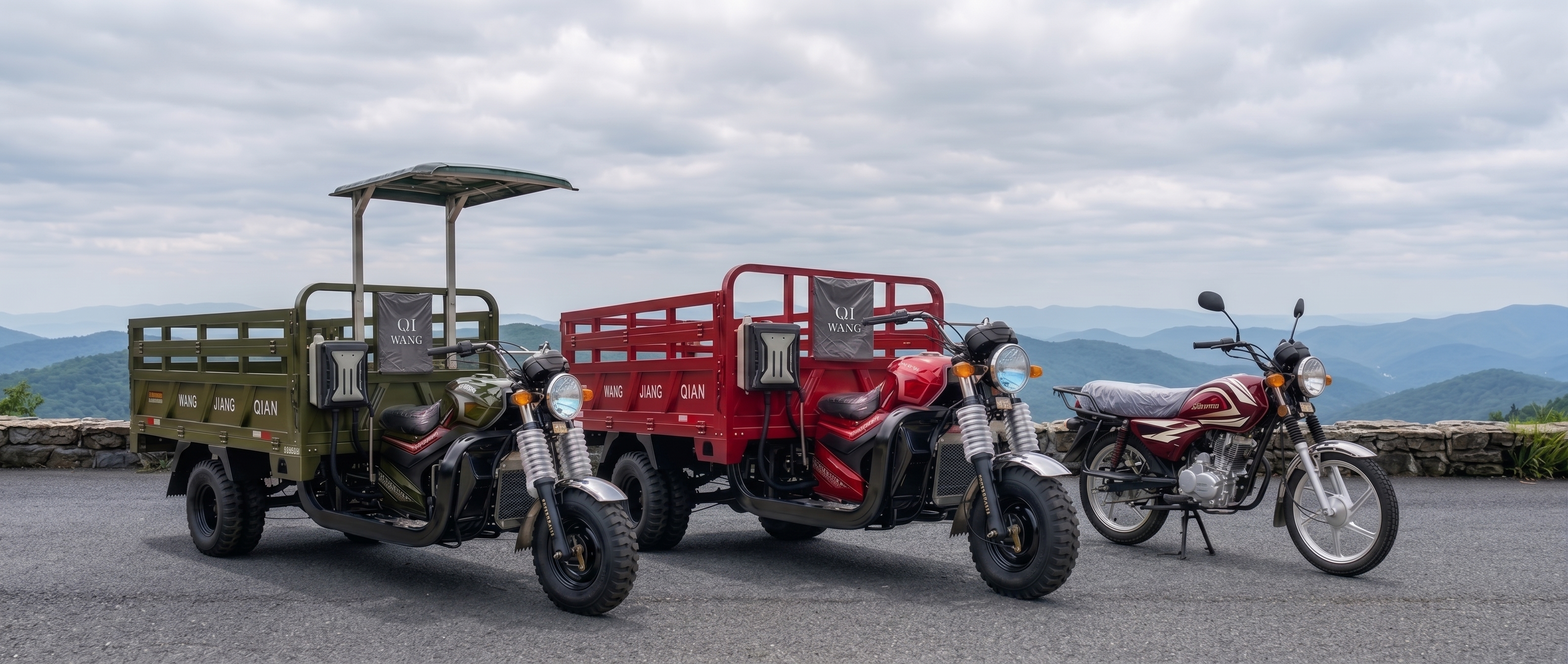
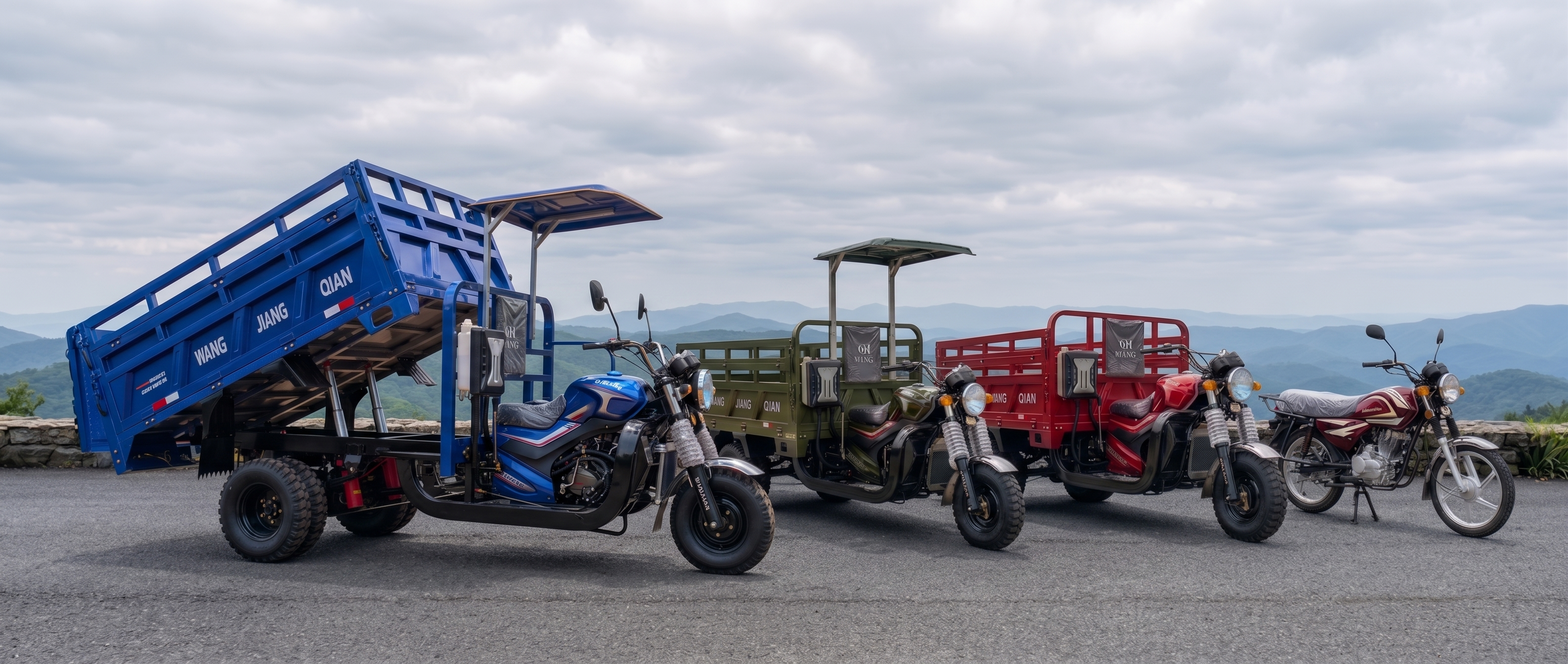
added teh self tipper

diff --git a/products.html b/products.html
@@ -134,42 +134,43 @@
         </div>
       </div>
 
-      <!-- ===== QJ WANG 300  ===== -->
-      <div class="catalog-card reveal" data-id="cargo-150-oil" data-type="tricycle">
-        <div class="bike-media">
-          
-          <img src="images/bikes/300_green_side.jpg" alt="QJ WANG 300 — photo">
+      <!-- ===== QJ WANG 300 self-tipping  ===== -->
+      <!-- ===== QJ WANG 300 self-tipping  ===== -->
+    <div class="catalog-card reveal" data-id="cargo-300-selftipping" data-type="tricycle">
+      <div class="bike-media">
+        <span class="bike-badge">New</span>
+        <img src="images/bikes/300_blue_tipper_side_right.jpg" alt="QJ WANG 300 — photo">
+      </div>
+      <div class="bike-body">
+        <span class="cat mono">CARGO TRICYCLE &middot; TUKTUK</span>
+        <h3>QJ WANG 300</h3>
+        <div class="bike-specs-mini">
+          <div>Engine<strong>300CC</strong></div>
+          <div>Load<strong>1.5 ton</strong></div>
         </div>
-        <div class="bike-body">
-          <span class="cat mono">CARGO TRICYCLE &middot; TUKTUK</span>
-          <h3>QJ WANG 300</h3>
-          <div class="bike-specs-mini">
-            <div>Engine<strong>300CC</strong></div>
-            <div>Load<strong>1.0 ton</strong></div>
-          </div>
-          <div class="bike-body-footer">
-            <span class="price-tag">Price on request</span>
-            <span class="view-link">Tap to expand <svg viewBox="0 0 24 24" fill="none" stroke="currentColor" stroke-width="2"><path d="M6 9l6 6 6-6"/></svg></span>
-          </div>
+        <div class="bike-body-footer">
+          <span class="price-tag">Price on request</span>
+          <span class="view-link">Tap to expand <svg viewBox="0 0 24 24" fill="none" stroke="currentColor" stroke-width="2"><path d="M6 9l6 6 6-6"/></svg></span>
         </div>
       </div>
-      <div class="dossier-row" id="dossier-cargo-150-oil" data-for="cargo-150-oil">
+    </div>
+    <div class="dossier-row" id="dossier-cargo-300-selftipping" data-for="cargo-300-selftipping">
         <div class="dossier">
           <button class="dossier-close" aria-label="Close">&#10005;</button>
           <div class="dossier-top">
             <div class="dossier-gallery">
               <div class="dossier-gallery-main">
-                <img src="images/bikes/300_green_front_left.jpg" alt="JZ Cargo 150 (Oil-Cooled) — main photo">
+                <img src="images/bikes/300_blue_tipper_front.jpg" alt="JZ Cargo 150 (Oil-Cooled) — main photo">
               </div>
               <div class="dossier-thumbs">
-                <button class="active"><img src="images/bikes/300_green_front.jpg" alt="JZ Cargo 150 (Oil-Cooled) photo 1"></button>
-                <button><img src="images/bikes/300_greeen_back.jpg" alt="JZ Cargo 150 (Oil-Cooled) photo 2"></button>
-                <button><img src="images/bikes/300_green_side.jpg" alt="JZ Cargo 150 (Oil-Cooled) photo 3"></button>
+                <button class="active"><img src="images/bikes/300_blue_tipper_front.jpg" alt="JZ Cargo 150 (Oil-Cooled) photo 1"></button>
+                <button><img src="images/bikes/300_blue_tipper_side_left.jpg" alt="JZ Cargo 150 (Oil-Cooled) photo 2"></button>
+                <button><img src="images/bikes/300_blue_tipper_side_right.jpg" alt="JZ Cargo 150 (Oil-Cooled) photo 3"></button>
               </div>
             </div>
             <div class="dossier-info">
               <span class="cat mono">DOUBLE TIRE &middot; TUKTUK</span>
-              <h3>QJ WANG 300</h3>
+              <h3>QJ WANG 300 Self-Tipping</h3>
               <div class="dossier-tabs">
                 <!-- <button class="active" data-tab="overview">Overview</button> -->
                 <button class="active" data-tab="specs">Specs</button>
@@ -180,11 +181,12 @@
               <div class="dossier-pane active" data-pane="specs">
                 <table class="spec-table">
                   <tr><td colspan="2" style="padding-top:0; color:var(--green); font-weight:700; letter-spacing:0.06em;">MAIN TECHNICAL PARAMETERS</td></tr>
-                  <tr><td>Engine</td><td>300CC</td></tr>
+                  <tr><td>Engine</td><td>300CC </td></tr>
+                  <tr><td>Loading</td><td>self tipping </td></tr>
                   <tr><td>Cooling System</td><td>Radiator water-cooled</td></tr>
                   <tr><td>Body Size (W &times; L, m)</td><td>1.2 × 1.8</td></tr>
                   <tr><td>Tyre Specification</td><td>5.00-12</td></tr>
-                  <tr><td>Carrying Capacity (incl. rider)</td><td>1.0 ton</td></tr>
+                  <tr><td>Carrying Capacity (incl. rider)</td><td>1.5 ton</td></tr>
                   <tr><td>Key Technical Upgrades</td><td>Radiator water-cooled version enhanced heat control </br> improved performance </br> increased durability. </td></tr>
                 </table>
               </div>
@@ -196,6 +198,75 @@
                 <div class="dossier-footer" style="margin-top:0;">
                   <a href="https://wa.me/256740488173" target="_blank" rel="noopener" class="btn btn-red">Enquire on WhatsApp</a>
                   <a href="tel:+256770699999" class="btn btn-outline">Call Us</a>
+                </div>
+              </div>
+            </div>
+          </div>
+        </div>
+      </div>
+
+      <!-- ===== QJ WANG 300 (Radiator Water-Cooled) ===== -->
+      <div class="catalog-card reveal" data-id="cargo-300-water" data-type="tricycle">
+        <div class="bike-media">
+      
+          <img src="images/bikes/300_red_side.jpg" alt="QJ WANG 300 (Radiator Water-Cooled) — photo">
+        </div>
+        <div class="bike-body">
+          <span class="cat mono">DOUBLE TIRE &middot; TUKTUK</span>
+          <h3>QJ WANG 300 </h3>
+          <div class="bike-specs-mini">
+            <div>Engine<strong>300CC</strong></div>
+            <div>Load<strong>1.8 tons</strong></div>
+          </div>
+          <div class="bike-body-footer">
+            <span class="price-tag">Price on request</span>
+            <span class="view-link">Tap to expand <svg viewBox="0 0 24 24" fill="none" stroke="currentColor" stroke-width="2"><path d="M6 9l6 6 6-6"/></svg></span>
+          </div>
+        </div>
+      </div>
+      <div class="dossier-row" id="dossier-cargo-300-water" data-for="cargo-300-water">
+        <div class="dossier">
+          <button class="dossier-close" aria-label="Close">&#10005;</button>
+          <div class="dossier-top">
+            <div class="dossier-gallery">
+              <div class="dossier-gallery-main">
+                <img src="images/bikes/300_red_side.jpg" alt="QJ WANG 300 (Radiator Water-Cooled) — main photo">
+              </div>
+              <div class="dossier-thumbs">
+                <button class="active"><img src="images/bikes/300_red_side.jpg" alt="QJ WANG 300 (Radiator Water-Cooled) photo 1"></button>
+                <button><img src="images/bikes/300_red_back.jpg" alt="QJ WANG 300 (Radiator Water-Cooled) photo 2"></button>
+                <!-- <button><img src="images/bikes/300_green_side.jpg" alt="QJ WANG 300 (Radiator Water-Cooled) photo 3"></button> -->
+              </div>
+            </div>
+            <div class="dossier-info">
+              <span class="cat mono">CARGO TRICYCLE &middot; TUKTUK</span>
+              <h3>QJ WANG 300</h3>
+              <div class="dossier-tabs">
+                <!-- <button class="active" data-tab="overview">Overview</button> -->
+                <button class="active" data-tab="specs">Specs</button>
+              </div>
+              <!-- <div class="dossier-pane active" data-pane="overview">
+                <p class="desc">Radiator system for cooler performance under load; larger rear tyres for balance.</p>
+              </div> -->
+              <div class="dossier-pane active" data-pane="specs">
+                <table class="spec-table">
+                  <tr><td colspan="2" style="padding-top:0; color:var(--green); font-weight:700; letter-spacing:0.06em;">MAIN TECHNICAL PARAMETERS</td></tr>
+                  <tr><td>Engine</td><td>300CC</td></tr>
+                  <tr><td>Cooling System</td><td>Radiator water-cooled</td></tr>
+                  <tr><td>Body Size (W &times; L, m)</td><td>1.3 × 2.0</td></tr>
+                  <tr><td>Tyre Specification</td><td>Front 5.00-12 / Rear 5.50-13</td></tr>
+                  <tr><td>Carrying Capacity (incl. rider)</td><td>1.3 tons</td></tr>
+                  <tr><td>Key Technical Upgrades</td><td>Radiator system for cooler performance under load </br> larger rear tyres for balance </br> improved torque </br> load stability. </td></tr>
+                </table>
+              </div>
+
+              <div class="interest-panel">
+                <span class="eyebrow">JIUZHOU MOTORCYCLES</span>
+                <h4>Interested in the QJ WANG 300?</h4>
+                <p>Chat with our team for current pricing, financing options and availability.</p>
+                <div class="dossier-footer" style="margin-top:0;">
+                  <a href="https://wa.me/256740488173" target="_blank" rel="noopener" class="btn btn-red">Enquire on WhatsApp</a>
+                  <a href="tel:+25677069999" class="btn btn-outline">Call Us</a>
                 </div>
               </div>
             </div>
@@ -271,19 +342,18 @@
           </div>
         </div>
       </div>
-
-      <!-- ===== QJ WANG 300 (Radiator Water-Cooled) ===== -->
-      <div class="catalog-card reveal" data-id="cargo-300-water" data-type="tricycle">
+<!-- ===== QJ WANG 300 (radiator) ===== -->
+      <div class="catalog-card reveal" data-id="cargo-150-oil" data-type="tricycle">
         <div class="bike-media">
-          <span class="bike-badge">New</span>
-          <img src="images/bikes/300_red_side.jpg" alt="QJ WANG 300 (Radiator Water-Cooled) — photo">
+          
+          <img src="images/bikes/300_green_side.jpg" alt="QJ WANG 300 — photo">
         </div>
         <div class="bike-body">
-          <span class="cat mono">DOUBLE TIRE &middot; TUKTUK</span>
-          <h3>QJ WANG 300 </h3>
+          <span class="cat mono">CARGO TRICYCLE &middot; TUKTUK</span>
+          <h3>QJ WANG 300</h3>
           <div class="bike-specs-mini">
             <div>Engine<strong>300CC</strong></div>
-            <div>Load<strong>1.8 tons</strong></div>
+            <div>Load<strong>1.0 ton</strong></div>
           </div>
           <div class="bike-body-footer">
             <span class="price-tag">Price on request</span>
@@ -291,39 +361,39 @@
           </div>
         </div>
       </div>
-      <div class="dossier-row" id="dossier-cargo-300-water" data-for="cargo-300-water">
+      <div class="dossier-row" id="dossier-cargo-150-oil" data-for="cargo-150-oil">
         <div class="dossier">
           <button class="dossier-close" aria-label="Close">&#10005;</button>
           <div class="dossier-top">
             <div class="dossier-gallery">
               <div class="dossier-gallery-main">
-                <img src="images/bikes/300_red_side.jpg" alt="QJ WANG 300 (Radiator Water-Cooled) — main photo">
+                <img src="images/bikes/300_green_front_left.jpg" alt="JZ Cargo 150 (Oil-Cooled) — main photo">
               </div>
               <div class="dossier-thumbs">
-                <button class="active"><img src="images/bikes/300_red_side.jpg" alt="QJ WANG 300 (Radiator Water-Cooled) photo 1"></button>
-                <button><img src="images/bikes/300_red_back.jpg" alt="QJ WANG 300 (Radiator Water-Cooled) photo 2"></button>
-                <!-- <button><img src="images/bikes/300_green_side.jpg" alt="QJ WANG 300 (Radiator Water-Cooled) photo 3"></button> -->
+                <button class="active"><img src="images/bikes/300_green_front.jpg" alt="JZ Cargo 150 (Oil-Cooled) photo 1"></button>
+                <button><img src="images/bikes/300_greeen_back.jpg" alt="JZ Cargo 150 (Oil-Cooled) photo 2"></button>
+                <button><img src="images/bikes/300_green_side.jpg" alt="JZ Cargo 150 (Oil-Cooled) photo 3"></button>
               </div>
             </div>
             <div class="dossier-info">
-              <span class="cat mono">CARGO TRICYCLE &middot; TUKTUK</span>
+              <span class="cat mono">DOUBLE TIRE &middot; TUKTUK</span>
               <h3>QJ WANG 300</h3>
               <div class="dossier-tabs">
                 <!-- <button class="active" data-tab="overview">Overview</button> -->
                 <button class="active" data-tab="specs">Specs</button>
               </div>
               <!-- <div class="dossier-pane active" data-pane="overview">
-                <p class="desc">Radiator system for cooler performance under load; larger rear tyres for balance.</p>
+                <p class="desc">Same as the air-cooled version but includes an oil-cooling system for better heat control.</p>
               </div> -->
               <div class="dossier-pane active" data-pane="specs">
                 <table class="spec-table">
                   <tr><td colspan="2" style="padding-top:0; color:var(--green); font-weight:700; letter-spacing:0.06em;">MAIN TECHNICAL PARAMETERS</td></tr>
                   <tr><td>Engine</td><td>300CC</td></tr>
                   <tr><td>Cooling System</td><td>Radiator water-cooled</td></tr>
-                  <tr><td>Body Size (W &times; L, m)</td><td>1.3 × 2.0</td></tr>
-                  <tr><td>Tyre Specification</td><td>Front 5.00-12 / Rear 5.50-13</td></tr>
-                  <tr><td>Carrying Capacity (incl. rider)</td><td>1.3 tons</td></tr>
-                  <tr><td>Key Technical Upgrades</td><td>Radiator system for cooler performance under load </br> larger rear tyres for balance </br> improved torque </br> load stability. </td></tr>
+                  <tr><td>Body Size (W &times; L, m)</td><td>1.2 × 1.8</td></tr>
+                  <tr><td>Tyre Specification</td><td>5.00-12</td></tr>
+                  <tr><td>Carrying Capacity (incl. rider)</td><td>1.0 ton</td></tr>
+                  <tr><td>Key Technical Upgrades</td><td>Radiator water-cooled version enhanced heat control </br> improved performance </br> increased durability. </td></tr>
                 </table>
               </div>
 
@@ -333,13 +403,15 @@
                 <p>Chat with our team for current pricing, financing options and availability.</p>
                 <div class="dossier-footer" style="margin-top:0;">
                   <a href="https://wa.me/256740488173" target="_blank" rel="noopener" class="btn btn-red">Enquire on WhatsApp</a>
-                  <a href="tel:+25677069999" class="btn btn-outline">Call Us</a>
+                  <a href="tel:+256770699999" class="btn btn-outline">Call Us</a>
                 </div>
               </div>
             </div>
           </div>
         </div>
       </div>
+
+      
 
       <!-- ===== QJ WANG 200 (Single Tire) ===== -->
       <!-- <div class="catalog-card reveal" data-id="cargo-200-single" data-type="tricycle">

diff --git a/index.html b/index.html
@@ -115,7 +115,27 @@
       <a href="products.html" class="bike-card reveal">
         <div class="bike-media">
           <!-- <span class="bike-badge">Popular</span> -->
-          <img src="images/bikes/200_blue_side.jpg" alt="QJ WANG 200 (Air-Cooled)">
+           <span class="bike-badge">New</span>
+          <img src="images/bikes/300_blue_tipper_side_right.jpg" alt="QJ WANG 200 (Air-Cooled)">
+        </div>
+        <div class="bike-body">
+          <span class="cat mono">CARGO TRICYCLE</span>
+          <h3>QJ WANG 300 Self Tipping</h3>
+          <div class="bike-specs-mini">
+            <div>Engine<strong>300cc</strong></div>
+            <div>Load<strong>1.2 tons</strong></div>
+          </div>
+          <div class="bike-body-footer">
+            <span class="price-tag">Price on request</span>
+            <span class="view-link">Details <svg viewBox="0 0 24 24" fill="none" stroke="currentColor" stroke-width="2"><path d="M5 12h14M13 5l7 7-7 7"/></svg></span>
+          </div>
+        </div>
+      </a>
+
+      <a href="products.html" class="bike-card reveal">
+        <div class="bike-media">
+          <span class="bike-badge">Popular</span>
+          <img src="images/bikes/200_red_side.jpg" alt="QJ WANG 200 (Air-Cooled)">
         </div>
         <div class="bike-body">
           <span class="cat mono">CARGO TRICYCLE</span>

diff --git a/css/style.css b/css/style.css
@@ -365,7 +365,7 @@ url("../images/offer.jpg") center center / cover no-repeat,
 .testi-slide:nth-of-type(3) .testi-avatar{background:#fff; color:var(--black);}
 
 /* ---------- featured bikes (home preview) ---------- */
-.bike-grid{display:grid; grid-template-columns:repeat(3,1fr); gap:24px;}
+.bike-grid{display:grid; grid-template-columns:repeat(2,2fr); gap:24px;}
 @media (max-width:900px){.bike-grid{grid-template-columns:1fr 1fr;}}
 @media (max-width:620px){.bike-grid{grid-template-columns:1fr;}}
 
